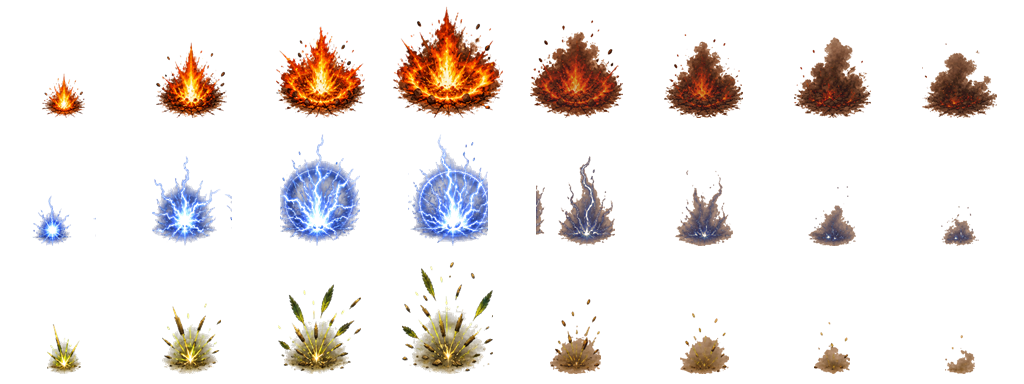
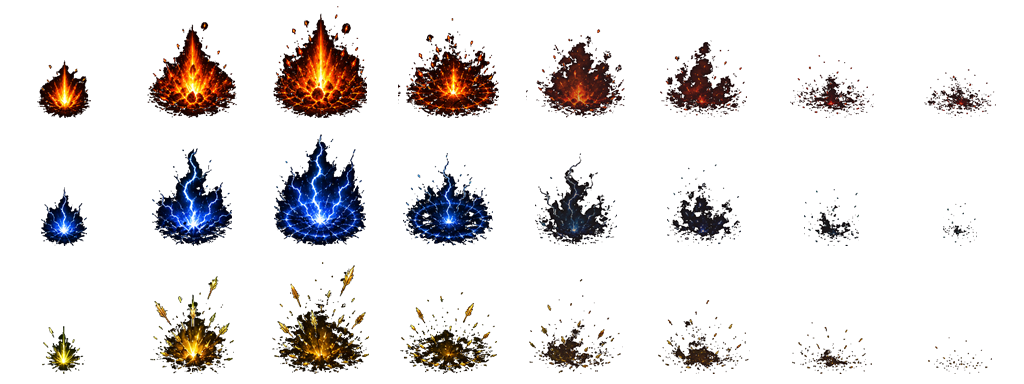
Fix VFX alpha fringing with additive source

diff --git a/index.html b/index.html
@@ -765,7 +765,7 @@
     <script src="enemy-system.js?v=202605010720"></script>
     <script src="abyss-system.js?v=202601061400"></script>
     <script src="auto-battle.js?v=202601101200"></script>
-    <script src="vfx-manifest.js?v=202605051720"></script>
+    <script src="vfx-manifest.js?v=202605051755"></script>
     <script src="game.js?v=202605051610"></script>
     <script src="pocketbase.umd.js"></script>
     <script src="online.js?v=202605010330"></script>

diff --git a/vfx-manifest.js b/vfx-manifest.js
@@ -1,5 +1,5 @@
 window.VFX_SPRITE_MANIFEST = {
-    sheet: 'vfx_sheet.png?v=202605051720',
+    sheet: 'vfx_sheet.png?v=202605051755',
     effects: {
         fireballImpact: {
             row: 0,
@@ -31,7 +31,8 @@ window.VFX_SPRITE_MANIFEST = {
             fps: 24,
             renderSize: 54,
             pivotX: 64,
-            pivotY: 104
+            pivotY: 104,
+            blend: 'lighter'
         }
     }
 };

diff --git a/docs/sprite-pipeline-adoption.md b/docs/sprite-pipeline-adoption.md
@@ -64,5 +64,6 @@
 | 提交时容易混入历史脏改 | 工作区已有 `game.js/index.html/style.css` 未提交改动 | 提交前用 `git diff --cached --stat` 和 `git diff --cached --check` 核对原子范围，只提交本次闭环文件 |
 | 预览器里好看但真实场景过大、漂浮 | 只按图集视觉调参，没按角色比例和地牢背景校准 | VFX 首次接入默认按角色 `renderSize` 的 90%-110% 估算，命中爆炸 pivot 放在底部 75%-82% 位置，并用真实场景截图验证 |
 | 烟尘在绿色地牢里发白 | AI 烟尘高亮偏灰白，和暗色地牢不融合 | 晋升后半段烟尘帧要压暗、偏暖、降低 alpha，避免白边和抠图感 |
+| 棋盘格源图会造成永久白边 | 模型把“透明预览格”画进像素，柔边已经和浅底混色 | 禁止接受棋盘格源图；优先生成真实 alpha PNG，做不到时改用纯黑底 additive 图，游戏内用 `lighter` 混合 |
 
 后续做闪电、箭矢、Boss 预警或角色动作时，验收顺序固定为：AI/人工源图 -> 晋升脚本 -> 资源合同检查 -> 预览器截图 -> 游戏真实入口冒烟 -> 原子提交。

diff --git a/CHANGELOG.md b/CHANGELOG.md
@@ -10,6 +10,7 @@
 - 记录 AI 图集接入踩坑与硬规则，明确后续 VFX 工作的固定验收顺序。
 - 调整火球爆炸 VFX 的真实场景尺寸、底部 pivot 和烟尘压暗规则，减少漂浮感和白边感。
 - 新增闪电命中和多重射击命中 VFX，并将 VFX 图集升级为多行多效果资源。
+- 将三系命中 VFX 源图规则改为真实 alpha 或纯黑底 additive，避免棋盘格假透明导致白边。
 
 ## v7.09 - 2026-05-01
 
